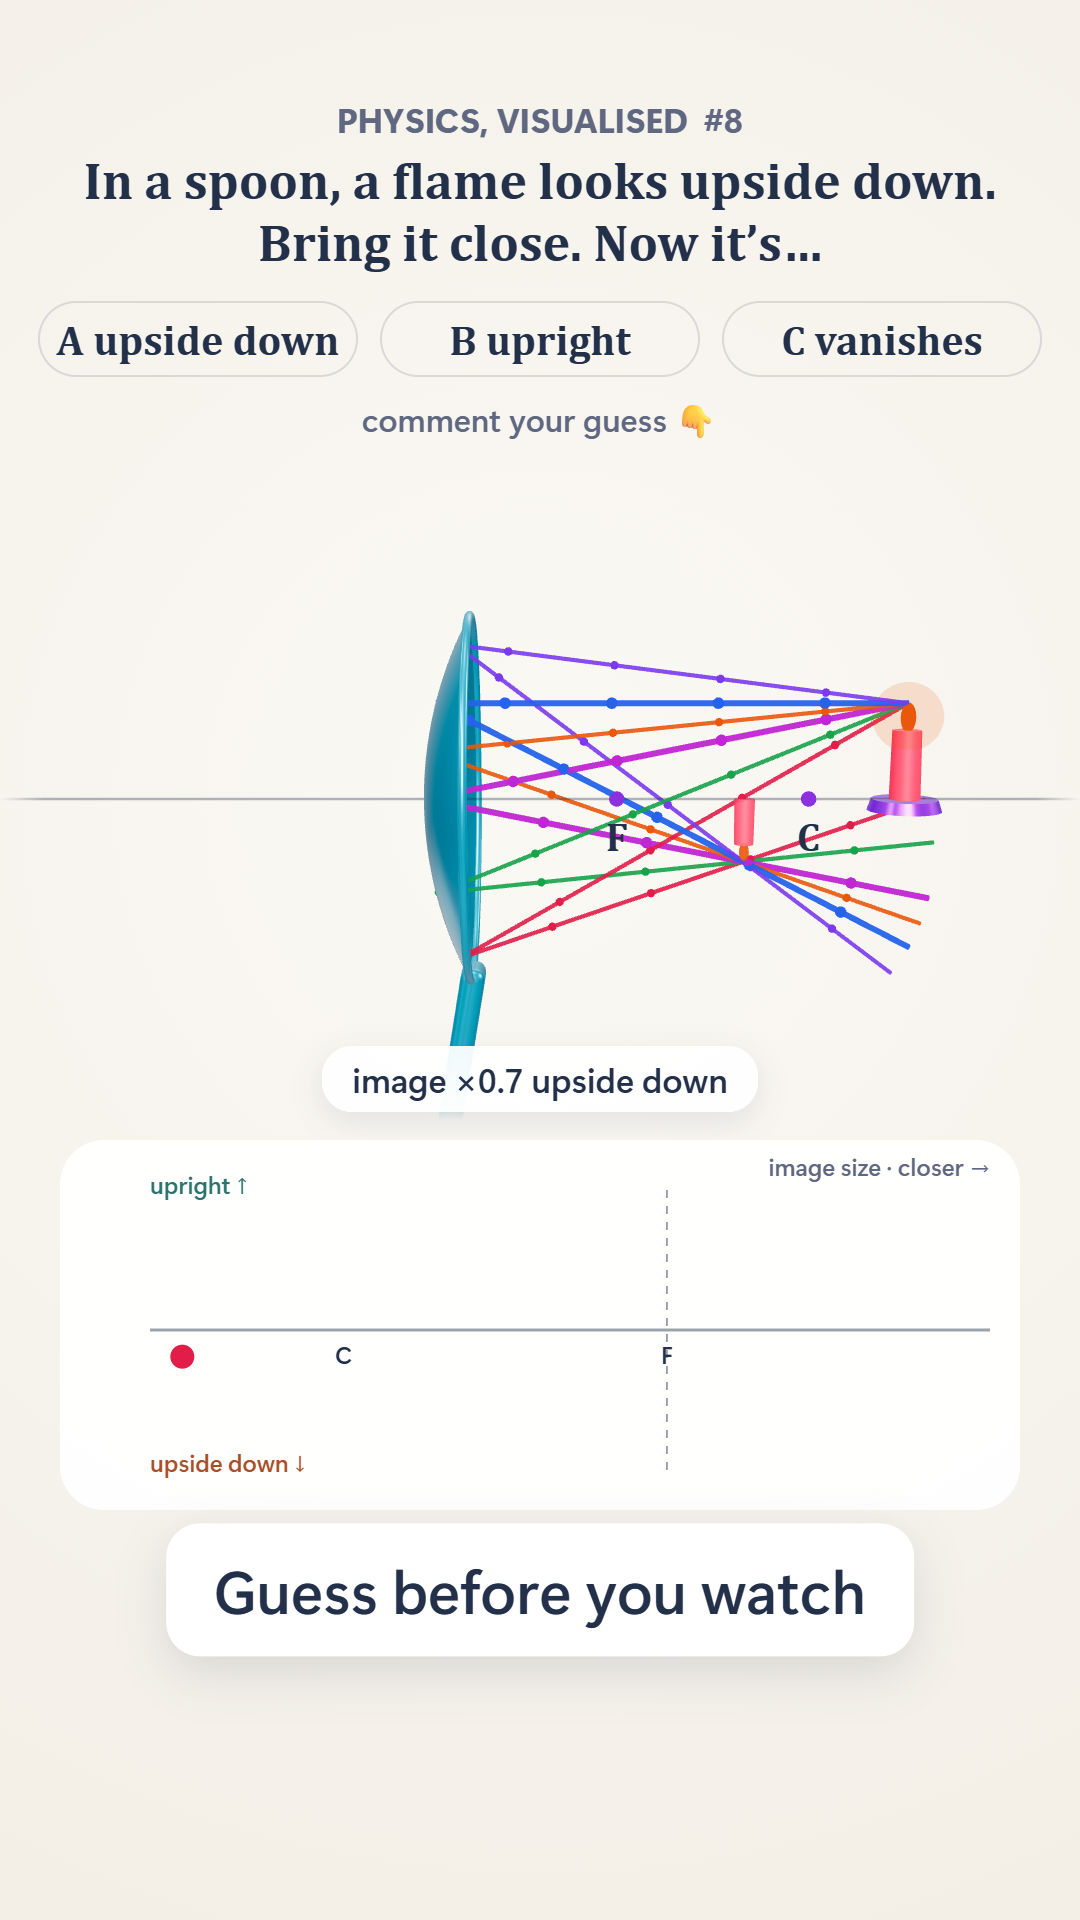
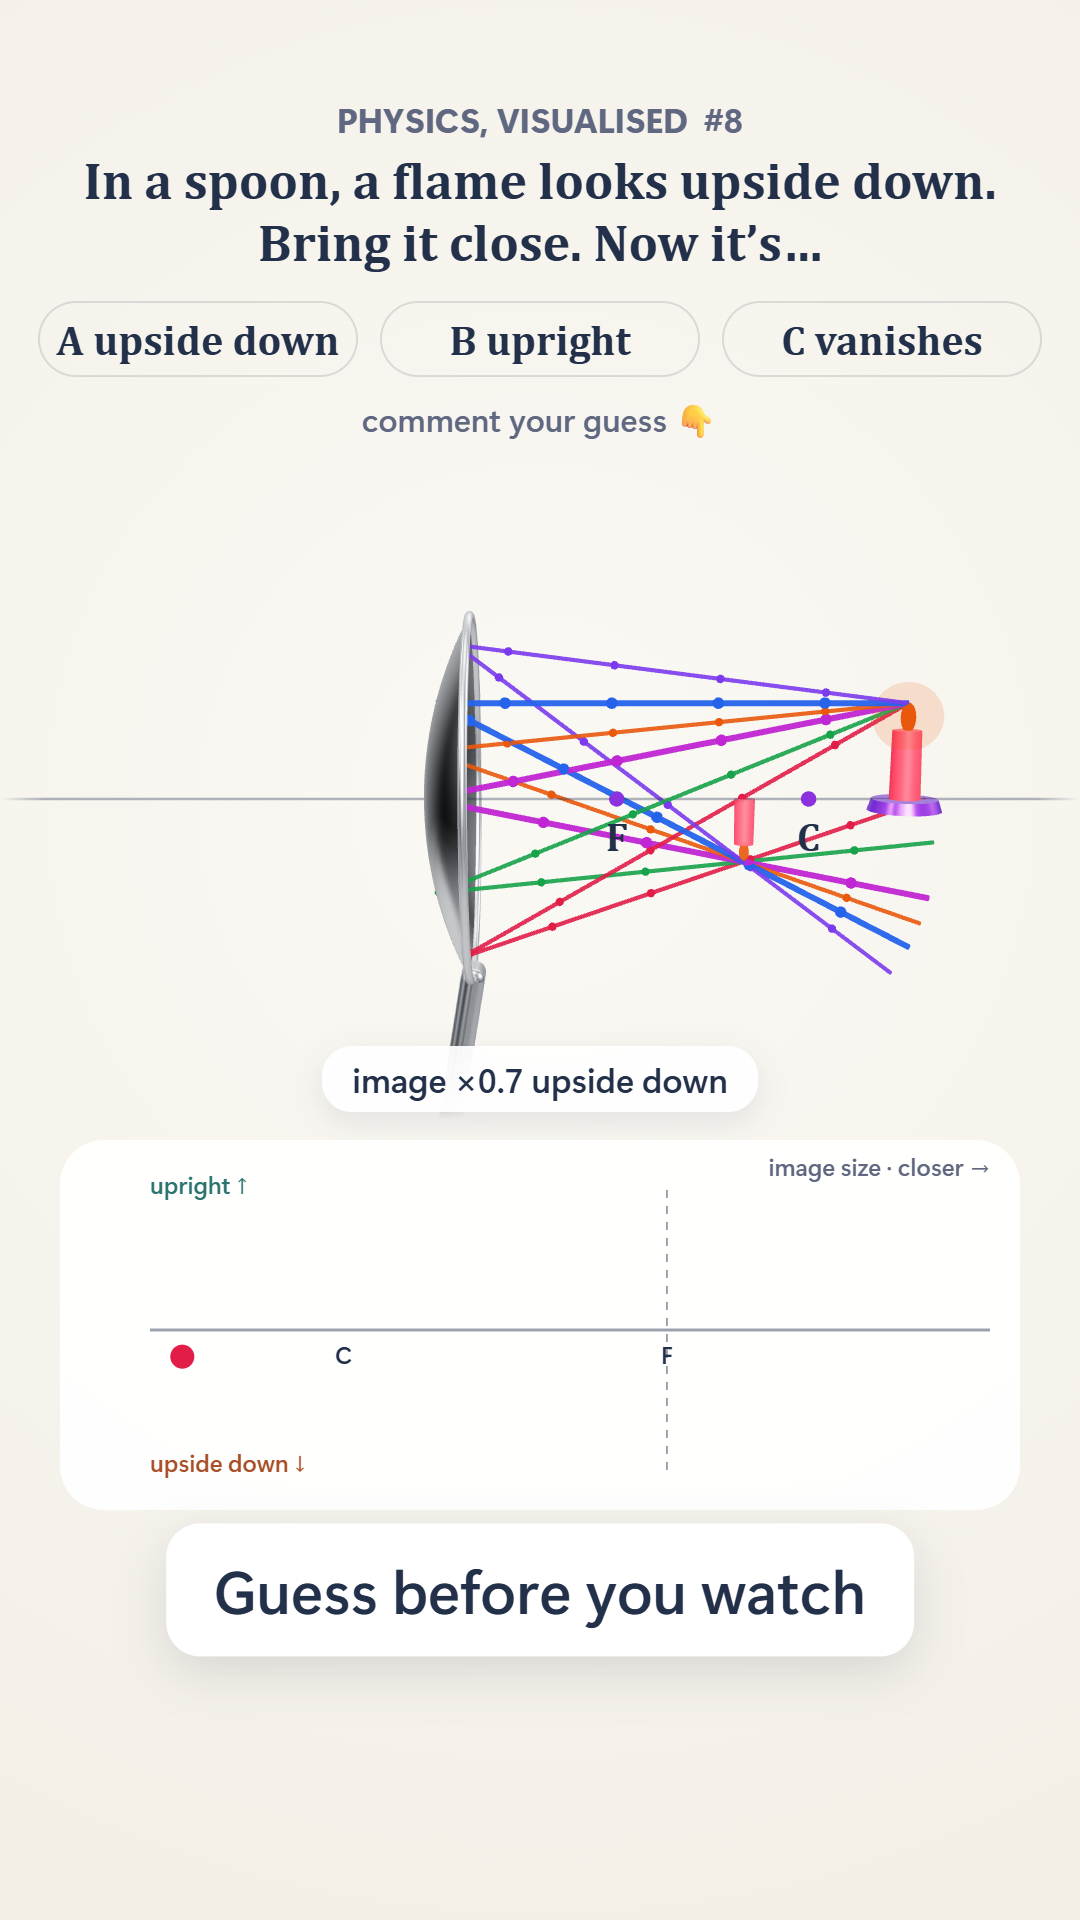
feat(reels): Physics #8 goes out vivid with the steel spoon
Founder, comparing the two versions: "original spoon colour was better,
rest vivid is better". The vivid look keeps the steel spoon; the
manifest now points to the vivid render and the queued GoPost post was
replaced while still Ready.

Changed region(s): [[0.3667, 0.3125, 0.4583, 0.5625]]

diff --git a/remotion/src/PvPhysics008.tsx b/remotion/src/PvPhysics008.tsx
@@ -23,7 +23,8 @@ const COVER = { text: 'Guess before you watch', y: 1590, size: 60 };
 const FLAME_CORE = '#fff2b0';
 // The reel's object colours. FIRST is the version queued on 21 Oct; VIVID_LOOK remakes it under framework F24 (bright
 // objects, founder 2026-10-21): every key object from the white board's VIVID set, and each ray its own colour so it
-// can be followed from the flame to the image. Text and UI keep the WHITE palette (contrast).
+// can be followed from the flame to the image; the spoon stays steel (founder, comparing: "original spoon colour was
+// better"). Text and UI keep the WHITE palette (contrast).
 type Look = {
   wax: string; flame: string; holder: string; spoon: string; metal: number; marks: string; iris: string;
   rays: string[]; rayOpacity: number; back: (ray: number) => string; down: string; up: string;
@@ -36,7 +37,7 @@ const FIRST: Look = {
 };
 const V = VIVID.white;
 const VIVID_LOOK: Look = {
-  wax: V.red, flame: V.orange, holder: V.violet, spoon: V.cyan, metal: 0.55, marks: V.violet, iris: V.blue,
+  wax: V.red, flame: V.orange, holder: V.violet, spoon: FIRST.spoon, metal: FIRST.metal, marks: V.violet, iris: V.blue,
   rays: [V.blue, V.pink, V.red, V.green, V.orange, V.violet], rayOpacity: 0.9, back: i => [V.blue, V.pink, V.red, V.green, V.orange, V.violet][i],
   backOpacity: [0.75, 0.55], ghost: [0.82, 0.9],
   down: V.red, up: V.green,

diff --git a/reels/pv-physics-008-spoon.md b/reels/pv-physics-008-spoon.md
@@ -58,5 +58,6 @@ and C marks, and a red (upside down) → green (upright) graph. Text keeps the W
 `pv-physics-008-spoon-vivid-voice.mp4` (passes `check-video`) · cover `pv-physics-008-spoon-vivid-cover.png` · strip
 `pv-physics-008-vivid-strip.png` · side by side: `pv-physics-008-compare.mp4` (first left, vivid right, the vivid one's
 sound; `npm run compare:pp008`). Re-make: `npm run render:pp008vivid && npm run cover:pp008vivid`.
-The queued GoPost post is still the first version; if the founder picks vivid, the manifest points to the vivid files
-and the post is replaced before approval.
+**Founder's pick (2026-10-21):** "original spoon colour was better, rest vivid is better". The vivid look now keeps the
+steel spoon (framework F24 v1.13: known materials keep their look); the manifest points to the vivid files and the queued
+GoPost post was replaced (`queue:add --replace`, still Ready). `pv-physics-008-compare.mp4` shows the cyan-spoon draft.
